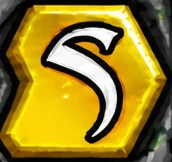
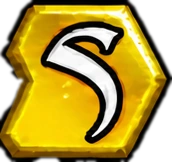
feat(siege): equip earlier power forms, drop special energy costs, cut tab art to its shape
Claude-Session: https://claude.ai/code/session_01D7UBrhj4BdB81o1BiFmQxC

diff --git a/bug-hunter/src/siege/cartoon/model.ts b/bug-hunter/src/siege/cartoon/model.ts
@@ -235,7 +235,8 @@ export interface Progress { version: 1; unlocked: number; coins: number; victori
   owned: number[];
   /** The special powers bought (`POWERS`): each one's level, 0 when not bought. */
   powers: number[];
-  /** The powers taken into battle (at most `KIT`), by id. */
+  /** The power forms taken into battle (at most `KIT`), as cards (`powerCard`): any form already bought, so an upgraded power
+      can still bring its earlier forms. */
   kit: number[];
   /** Set once the deck holds cards (`card`), not troop ids. */
   cards: 1 }
@@ -267,7 +268,7 @@ export function readProgress(raw: string | null): Progress {
     p.upgrades = [0, 1, 2, 3].map(i => integer(v.upgrades?.[i], 0, 5, 0)) as Progress['upgrades'];
     p.levels = UNITS.map(u => (u.foe ? 1 : integer(v.levels?.[u.id], 1, levelsOf(u.id), 1)));
     p.powers = POWERS.map((w, i) => integer(v.powers?.[i], 0, w.forms.length, 0));
-    p.kit = Array.isArray(v.kit) ? [...new Set<number>(v.kit.filter((n: unknown): n is number => typeof n === 'number' && p.powers[n] > 0))].slice(0, KIT) : [];
+    p.kit = Array.isArray(v.kit) ? [...new Set<number>(v.kit.filter((n: unknown): n is number => typeof n === 'number' && hasPower(p, n)))].slice(0, KIT) : [];
     p.owned = [...new Set<number>([0, ...(Array.isArray(v.owned) ? v.owned.filter((n: unknown) => typeof n === 'number' && isOpen(p, n)) : [])])];
     // An older save's deck holds troop ids, each meaning the troop at its level then.
     const deck: number[] = Array.isArray(v.deck) ? v.deck.filter((n: unknown): n is number => typeof n === 'number').map((n: number) => (v.cards === 1 ? n : owns(p, n) ? card(n, p.levels[n]) : -1)) : [];
@@ -332,7 +333,7 @@ export interface Siege {
   spell: number; rocket: number; aim: number; bow: Bow;
   /** The special powers taken into this battle (`POWERS`, at the level bought), their recharges, the blows each has
       scheduled to land (`Hit`), and the stretch of field on screen (set by the view) that they cover. */
-  kit: { id: number; level: number }[]; kitCd: Record<number, number>; hitq: Hit[]; view: { x: number; width: number }; casts: number;
+  kit: { id: number; level: number; card: number }[]; kitCd: Record<number, number>; hitq: Hit[]; view: { x: number; width: number }; casts: number;
   /** The troops' sounds since the view last took them (attacks and deaths, where they happened); kept short. */
   sounds?: { k: string; x: number }[];
   /** How many times the bow has shot this battle (the view plays a sound for each new one). */
@@ -373,7 +374,7 @@ export const generatorPrice = (s: Siege) => 65 + s.generator * 45;
 export function newSiege(p: Progress, world: number): Siege {
   world = integer(world, 1, Math.min(LAST, p.unlocked), 1);
   const maxHp: [number, number] = [1700 + p.upgrades[1] * 200, 1700 + hard(world) * 150];
-  return { world, phase: 'fight', time: 0, energy: 80, generator: 0, cooldowns: {}, hp: [...maxHp], maxHp, units: [], effects: [], nextId: 1, nextWave: 7, waves: 0, kills: 0, spell: 0, rocket: 0, aim: 700, bossSpawned: false, paid: false, power: 1 + p.upgrades[0] * 0.08, economy: p.upgrades[2] * 0.6, deck: [...p.deck], bow: { quiver: BOW.max, drawing: false, held: 0, next: 0, level: p.upgrades[3] }, fort: p.upgrades[1], levels: [...(p.levels ?? [])], kit: p.kit.filter(id => p.powers[id] > 0).map(id => ({ id, level: p.powers[id] })), kitCd: {}, hitq: [], view: { x: 0, width: 650 }, casts: 0 };
+  return { world, phase: 'fight', time: 0, energy: 80, generator: 0, cooldowns: {}, hp: [...maxHp], maxHp, units: [], effects: [], nextId: 1, nextWave: 7, waves: 0, kills: 0, spell: 0, rocket: 0, aim: 700, bossSpawned: false, paid: false, power: 1 + p.upgrades[0] * 0.08, economy: p.upgrades[2] * 0.6, deck: [...p.deck], bow: { quiver: BOW.max, drawing: false, held: 0, next: 0, level: p.upgrades[3] }, fort: p.upgrades[1], levels: [...(p.levels ?? [])], kit: p.kit.filter(c => hasPower(p, c)).map(c => ({ id: c % 100, level: Math.floor(c / 100) + 1, card: c })), kitCd: {}, hitq: [], view: { x: 0, width: 650 }, casts: 0 };
 }
 /** The guardian, Cartoon Wars 2-style: it only comes out once the enemy fortress falls, far tougher than a troop, and
     the battle is won when it falls too. */
@@ -574,12 +575,10 @@ function bow(s: Siege, dt: number) {
 }
 /** The missile: one heavy blast at the aim, a shorter recharge than the discharge. */
 export const ROCKET = { radius: 70, damage: 150, every: 12 };
-/** What each special costs in energy (the discharge and the missile; the shop's powers have their own `mana`), and their recharge. */
-export const MANA = { strike: 40, missile: 30 };
+/** The discharge's recharge (seconds). */
 export const STRIKE_EVERY = 24;
 export function missile(s: Siege): boolean {
-  if (s.phase !== 'fight' || s.rocket > 0 || s.energy < MANA.missile) return false;
-  s.energy -= MANA.missile;
+  if (s.phase !== 'fight' || s.rocket > 0) return false;
   const x = aimAt(s.aim);
   s.effects.push({ x, from: 80, lane: 1, life: 0.55, max: 0.55, kind: 'rocket', side: 0 });
   damageArea(s, x, ROCKET.radius, ROCKET.damage * s.power); s.rocket = ROCKET.every;
@@ -587,24 +586,24 @@ export function missile(s: Siege): boolean {
   s.effects[s.effects.length - 1].life += 0.55; return true;
 }
 export function strike(s: Siege): boolean {
-  if (s.phase !== 'fight' || s.spell > 0 || s.energy < MANA.strike) return false;
-  s.energy -= MANA.strike; damageArea(s, s.aim, 155, 210 * s.power, 0.7); s.spell = STRIKE_EVERY; return true;
+  if (s.phase !== 'fight' || s.spell > 0) return false;
+  damageArea(s, s.aim, 155, 210 * s.power, 0.7); s.spell = STRIKE_EVERY; return true;
 }
 /** The special powers (the shop's Especial tab): bought with gold, each covers the stretch of field on screen. Level 1
     is `price` gold, each later form its own `price`; `unlock` is the act that opens it. `damage` is per blow. */
 export interface PowerForm { price: number; damage: number; art?: string; freeze?: number; radius?: number; count?: number; push?: number }
-export const POWERS: { id: number; unlock: number; price: number; cooldown: number; mana: number; forms: PowerForm[] }[] = [
+export const POWERS: { id: number; unlock: number; price: number; cooldown: number; forms: PowerForm[] }[] = [
   // Arrow rain: arrows, ice arrows (they freeze), fire arrows (they leave flames), rockets (they explode).
-  { id: 0, unlock: 1, price: 400, cooldown: 30, mana: 70, forms: [{ price: 0, damage: 24, art: 'arrow' }, { price: 500, damage: 28, art: 'ice', freeze: 1.3 }, { price: 900, damage: 34, art: 'fire' }, { price: 1500, damage: 46, art: 'rocket', radius: 52 }] },
+  { id: 0, unlock: 1, price: 400, cooldown: 30, forms: [{ price: 0, damage: 24, art: 'arrow' }, { price: 500, damage: 28, art: 'ice', freeze: 1.3 }, { price: 900, damage: 34, art: 'fire' }, { price: 1500, damage: 46, art: 'rocket', radius: 52 }] },
   // Lightning rain: bolts across the field, the later forms more of them and stunning.
-  { id: 1, unlock: 2, price: 600, cooldown: 34, mana: 90, forms: [{ price: 0, damage: 60, count: 12 }, { price: 800, damage: 66, count: 18, freeze: 0.8 }, { price: 1400, damage: 76, count: 26, freeze: 1.3 }] },
+  { id: 1, unlock: 2, price: 600, cooldown: 34, forms: [{ price: 0, damage: 60, count: 12 }, { price: 800, damage: 66, count: 18, freeze: 0.8 }, { price: 1400, damage: 76, count: 26, freeze: 1.3 }] },
   // Tsunami: a wall of water sweeping the field, throwing the enemy back.
-  { id: 2, unlock: 3, price: 900, cooldown: 42, mana: 110, forms: [{ price: 0, damage: 90, push: 240 }, { price: 1100, damage: 140, push: 360 }, { price: 1900, damage: 210, push: 520, freeze: 1.2 }] },
+  { id: 2, unlock: 3, price: 900, cooldown: 42, forms: [{ price: 0, damage: 90, push: 240 }, { price: 1100, damage: 140, push: 360 }, { price: 1900, damage: 210, push: 520, freeze: 1.2 }] },
   // Meteor shower: burning rocks across the field, each leaving a fire.
-  { id: 3, unlock: 4, price: 1200, cooldown: 40, mana: 100, forms: [{ price: 0, damage: 95, count: 6, radius: 62 }, { price: 1500, damage: 115, count: 9, radius: 66 }, { price: 2400, damage: 135, count: 13, radius: 70 }] },
+  { id: 3, unlock: 4, price: 1200, cooldown: 40, forms: [{ price: 0, damage: 95, count: 6, radius: 62 }, { price: 1500, damage: 115, count: 9, radius: 66 }, { price: 2400, damage: 135, count: 13, radius: 70 }] },
 ];
-/** At most this many powers go into a battle. */
-export const KIT = 3;
+/** At most this many power forms go into a battle. */
+export const KIT = 4;
 /** A blow a power has scheduled to land at `at` (battle time) on the enemies within `r` of `x`; `seen` makes a sweeping
     one (the wave) strike each enemy only once. */
 export interface Hit { at: number; x: number; r: number; damage: number; freeze?: number; push?: number; seen?: Set<number> }
@@ -612,20 +611,25 @@ const powerOpen = (p: Progress, id: number) => testing.free || POWERS[id].unlock
 /** What a power's level costs in gold (level 1 is the power itself). */
 export const powerCost = (id: number, level: number) => (testing.free ? 0 : level <= 1 ? POWERS[id].price : POWERS[id].forms[level - 1]?.price ?? 0);
 export const isPowerOpen = (p: Progress, id: number) => !!POWERS[id] && powerOpen(p, id);
-/** Buys a power's first level or its next form; the first purchase also puts it in the kit if there is room. */
+/** A power form as a kit card: `id + (level - 1) * 100`, like a troop's. */
+export const powerCard = (id: number, level = 1) => id + (level - 1) * 100;
+/** Is this card a form of a power that has been bought (that level or beyond)? */
+export const hasPower = (p: Progress, c: number) => Number.isInteger(c) && c >= 0 && !!POWERS[c % 100] && Math.floor(c / 100) + 1 <= (p.powers[c % 100] ?? 0);
+/** Buys a power's first level or its next form; a new form goes into the kit if there is room. */
 export function buyPower(p: Progress, id: number): boolean {
   const w = POWERS[id]; if (!w) return false;
   const level = p.powers[id] ?? 0, cost = powerCost(id, level + 1);
   if (level >= w.forms.length || !powerOpen(p, id) || p.coins < cost) return false;
   p.coins -= cost; p.powers[id] = level + 1;
-  if (level === 0 && p.kit.length < KIT) p.kit.push(id);
+  if (p.kit.length < KIT) p.kit.push(powerCard(id, level + 1));
   return true;
 }
-/** Takes a bought power into the kit, or out of it; false when the kit is full or the power is not bought. */
-export function toggleKit(p: Progress, id: number): boolean {
-  if (p.kit.includes(id)) { p.kit = p.kit.filter(n => n !== id); return true; }
-  if (!(p.powers[id] > 0) || p.kit.length >= KIT) return false;
-  p.kit.push(id); return true;
+/** Takes a form that has been bought into the kit, or out of it; false when the kit is full or the form is not bought. */
+export function toggleKit(p: Progress, id: number, level = p.powers[id] ?? 1): boolean {
+  const c = powerCard(id, level);
+  if (p.kit.includes(c)) { p.kit = p.kit.filter(n => n !== c); return true; }
+  if (!hasPower(p, c) || p.kit.length >= KIT) return false;
+  p.kit.push(c); return true;
 }
 /** A fixed pseudo-random 0..1 for a number (so a battle replays the same). */
 const rnd = (n: number) => { const x = Math.sin(n * 12.9898 + 4.1) * 43758.5453; return x - Math.floor(x); };
@@ -639,9 +643,9 @@ function land(s: Siege, h: Hit) {
   }
 }
 /** Sets off a power from the kit: its blows spread over the stretch of field on screen. */
-export function castPower(s: Siege, id: number): boolean {
-  const k = s.kit.find(n => n.id === id), w = POWERS[id];
-  if (!k || !w || s.phase !== 'fight' || (s.kitCd[id] ?? 0) > 0 || s.energy < w.mana) return false;
+export function castPower(s: Siege, card: number): boolean {
+  const k = s.kit.find(n => n.card === card), id = k?.id ?? -1, w = POWERS[id];
+  if (!k || !w || s.phase !== 'fight' || (s.kitCd[card] ?? 0) > 0) return false;
   const form = w.forms[Math.min(k.level, w.forms.length) - 1], c = ++s.casts;
   let x0 = Math.max(110, s.view.x + 20), x1 = Math.min(FIELD - 90, s.view.x + s.view.width - 20);
   if (x1 - x0 < 160) { x0 = 110; x1 = FIELD - 90; }
@@ -683,7 +687,7 @@ export function castPower(s: Siege, id: number): boolean {
     }
     hear(s, 'meteor', (x0 + x1) / 2);
   }
-  s.energy -= w.mana; s.kitCd[id] = w.cooldown; return true;
+  s.kitCd[card] = w.cooldown; return true;
 }
 /** Fixed-step caller. Accumulate damage before removal so opposing lethal hits resolve fairly. */
 export function tick(s: Siege, dt: number) {

diff --git a/bug-hunter/src/siege/index.ts b/bug-hunter/src/siege/index.ts
@@ -166,20 +166,20 @@ export function openSiege(t: T, onClose: () => void, hero = { pic: '', name: '' 
       const level = k + 1, x = tile(row, level), on = pick.row === row && pick.level === level;
       const pic = shopTab === 'special' ? powerPic(row, level) : shopTab === 'base' ? `/images/game/${upgradePic('cartoon', row, level)}.webp` : V.portrait(row, level);
       const corner = shopTab === 'special' ? t('siegePowerCd', { n: cartoonModel.POWERS[row].cooldown }) : shopTab === 'base' ? String(level) : String(M.specAt(row, level).cost);
-      const worn = shopTab === 'special' ? level === progress.powers[row] && progress.kit.includes(row) : shopTab !== 'base' && selected.includes(cartoonModel.card(row, level));
+      const worn = shopTab === 'special' ? progress.kit.includes(cartoonModel.powerCard(row, level)) : shopTab !== 'base' && selected.includes(cartoonModel.card(row, level));
       // What is still to come stays hidden as a «?» (only what is owned, the next one to buy, and every troop's first form show), for the hype.
       const hidden = !x.have && !x.next && !(shopTab !== 'base' && level === 1);
       return `<button class="sg-st-tile ${x.have ? 'is-have' : x.next ? 'is-next' : 'is-locked'} ${on ? 'is-on' : ''} ${worn ? 'is-worn' : ''}" data-sg-tile="${row}:${level}" aria-pressed="${on}" aria-label="${hidden ? '?' : `${shopTab === 'special' ? powerName(row, level) : shopTab === 'base' ? t(`siegeUpgrade${row}` as Key) : name(row)} · ${t('siegeLevel', { n: level })}`}">${hidden ? '<span class="sg-st-q" aria-hidden="true">?</span>' : `<img src="${pic}" ${shopTab === 'base' || shopTab === 'special' ? '' : `data-trim="${pic}"`} alt="">`}${corner && !hidden ? `<small>${corner}</small>` : ''}${worn ? '<b class="sg-st-worn" aria-hidden="true">✓</b>' : ''}</button>`;
     }).join('<span class="sg-st-link" aria-hidden="true"></span>')}</div>`).join('');
     const x = tile(pick.row, pick.level), troop = shopTab !== 'base';
-    const label = !x.have && !x.next && !(troop && pick.level === 1) ? '? ? ?' : shopTab === 'special' ? `${powerName(pick.row, pick.level)} · ⚡ ${cartoonModel.POWERS[pick.row].mana} — ${t(`siegePower${pick.row}Text` as Key)}` : troop ? `${name(pick.row)} · ${t('siegeLevel', { n: pick.level })} — ${role(pick.row)}` : `${t(`siegeUpgrade${pick.row}` as Key)} · ${t('siegeLevel', { n: pick.level })}`;
+    const label = !x.have && !x.next && !(troop && pick.level === 1) ? '? ? ?' : shopTab === 'special' ? `${powerName(pick.row, pick.level)} — ${t(`siegePower${pick.row}Text` as Key)}` : troop ? `${name(pick.row)} · ${t('siegeLevel', { n: pick.level })} — ${role(pick.row)}` : `${t(`siegeUpgrade${pick.row}` as Key)} · ${t('siegeLevel', { n: pick.level })}`;
     const price = x.have ? `✓ ${t('siegeHave')}` : x.next ? (x.price ? `🪙 ${x.price}` : t('siegeFree')) : `🔒 ${x.why}`;
     const kind = shopTab === 'air';
     // The equipped cards; a tap on one takes it out of the army.
-    const kitSlots = Array.from({ length: cartoonModel.KIT }, (_, i) => { const id = progress.kit[i]; return id === undefined ? '<span class="sg-st-slot"></span>' : `<button class="sg-st-slot is-full" data-sg-tile="${id}:${progress.powers[id]}" aria-label="${powerName(id, progress.powers[id])}"><img src="${powerPic(id, progress.powers[id])}" alt=""><small>${progress.powers[id]}</small></button>`; }).join('');
+    const kitSlots = Array.from({ length: cartoonModel.KIT }, (_, i) => { const c = progress.kit[i]; if (c === undefined) return '<span class="sg-st-slot"></span>'; const id = c % 100, lv = Math.floor(c / 100) + 1; return `<button class="sg-st-slot is-full" data-sg-tile="${id}:${lv}" aria-label="${powerName(id, lv)}"><img src="${powerPic(id, lv)}" alt=""><small>${lv}</small></button>`; }).join('');
     const slots = shopTab === 'special' ? kitSlots : Array.from({ length: M.DECK }, (_, i) => { const c = selected.filter(n => air(n) === kind)[i]; return c === undefined ? '<span class="sg-st-slot"></span>' : `<button class="sg-st-slot is-full" data-sg-tile="${cid(c)}:${clv(c)}" aria-label="${name(cid(c))} · ${t('siegeLevel', { n: clv(c) })}"><img src="${V.portrait(cid(c), clv(c))}" data-trim="${V.portrait(cid(c), clv(c))}" alt=""><small>${clv(c)}</small></button>`; }).join('');
     return `<div class="sg-store is-${shopTab}"><nav class="sg-st-tabs" role="tablist">${tabs}<button class="sg-st-back" data-sg-prep="map">◀ ${t('siegeShopBack')}</button></nav>
-      <div class="sg-st-body"><div class="sg-st-frame"><div class="sg-st-grid">${grid}</div>${['top', 'bottom', 'left', 'right'].map(k => `<i class="sg-st-gem is-${k}" aria-hidden="true"></i>`).join('')}</div><aside class="sg-st-slots" aria-label="${shopTab === 'special' ? t('siegeShopSpecial') : t(kind ? 'siegeArmyAir' : 'siegeArmyLand', { n: selected.filter(n => air(n) === kind).length, max: M.DECK })}">${shopTab === 'base' ? '' : slots}</aside></div>
+      <div class="sg-st-body"><div class="sg-st-frame"><div class="sg-st-grid">${grid}</div>${['top', 'bottom', 'left', 'right'].map(k => `<i class="sg-st-gem is-${k}" aria-hidden="true"></i>`).join('')}</div><aside class="sg-st-slots" aria-label="${shopTab === 'special' ? t('siegeShopSpecial') + ` ${progress.kit.length}/${cartoonModel.KIT}` : t(kind ? 'siegeArmyAir' : 'siegeArmyLand', { n: selected.filter(n => air(n) === kind).length, max: M.DECK })}">${shopTab === 'base' ? '' : slots}</aside></div>
       <div class="sg-st-info"><p class="sg-st-desc"><b>${label}</b><span class="${x.next && progress.coins < x.price ? 'is-poor' : ''}">${price}</span></p><p class="sg-message" role="status"></p></div>
       <div class="sg-st-actions"><span class="sg-st-gold"><img src="/images/game/store/coins-2.webp" alt="">${progress.coins}</span>
         <button class="sg-st-buy" data-sg="purchase" ${x.next && progress.coins >= x.price ? '' : 'disabled'}>${t('siegeBuy')}</button>
@@ -194,7 +194,7 @@ export function openSiege(t: T, onClose: () => void, hero = { pic: '', name: '' 
   /** A tap on a troop form the player has puts that card in the army, or takes it out; it returns false (and says
       so) when that kind's five places are full. */
   function equip(row: number, level: number) {
-    if (shopTab === 'special') { if (!cartoonModel.toggleKit(progress, row)) return false; persist(); sound('click'); return true; }
+    if (shopTab === 'special') { if (!cartoonModel.toggleKit(progress, row, level)) return false; persist(); sound('click'); return true; }
     const c = cartoonModel.card(row, level);
     if (selected.includes(c)) selected = selected.filter(n => n !== c);
     else if (selected.filter(n => air(n) === air(c)).length < M.DECK) selected.push(c);
@@ -429,7 +429,7 @@ export function openSiege(t: T, onClose: () => void, hero = { pic: '', name: '' 
     root.querySelectorAll<HTMLElement>('[data-sg-tab]').forEach(b => { const on = b.dataset.sgTab === tab; b.classList.toggle('is-on', on); b.setAttribute('aria-selected', String(on)); });
     const list = tabCards();
     q('[data-sg-cards]').innerHTML = tab === 'special'
-      ? `<button data-sg="generator"></button><button data-sg="strike"></button><button data-sg="missile"></button>${(state?.kit ?? []).map(k => `<button data-sg-power="${k.id}"></button>`).join('')}`
+      ? `<button data-sg="generator"></button><button data-sg="strike"></button><button data-sg="missile"></button>${(state?.kit ?? []).map(k => `<button data-sg-power="${k.card}"></button>`).join('')}`
       : list.length ? list.map((id, i) => `<button data-sg-summon="${id}" aria-label="${i + 1}. ${name(cid(id))} · ${t('siegeLevel', { n: clv(id) })} · ${M.specAt(cid(id), clv(id)).cost}"><img src="${V.portrait(cid(id), clv(id))}" data-trim="${V.portrait(cid(id), clv(id))}" alt=""><small data-sg-cost="${id}"></small><i class="sg-cooldown" data-sg-cooldown="${id}"></i></button>`).join('')
       : `<p class="sg-empty">${t('siegeAirEmpty')}</p>`;
     V.trimImages(root); layoutBar(); updateUi();
@@ -468,17 +468,16 @@ export function openSiege(t: T, onClose: () => void, hero = { pic: '', name: '' 
     bowButton.style.setProperty('--q', (s.bow.quiver / M.BOW.max).toFixed(3));
     bowButton.classList.toggle('is-empty', reloading); bowButton.classList.toggle('is-drawing', s.bow.drawing); bowButton.setAttribute('aria-pressed', String(s.bow.drawing));
     bowButton.disabled = paused || s.phase !== 'fight';
-    // Cartoon's specials cost energy and show their recharge as a darkening that lightens from the top down; Legacy's keep the seconds.
+    // Cartoon's specials show their recharge as a darkening that lightens from the top down; Legacy's keep the seconds.
     const cartoon = mode === 'cartoon';
-    for (const [action, key, cd, pic, total, mana] of [['strike', 'siegeSpell', s.spell, 'skills/bolt', cartoonModel.STRIKE_EVERY, cartoonModel.MANA.strike], ['missile', 'siegeMissile', s.rocket, 'fx/rocket', cartoonModel.ROCKET.every, cartoonModel.MANA.missile]] as const) {
+    for (const [action, key, cd, pic, total] of [['strike', 'siegeSpell', s.spell, 'skills/bolt', cartoonModel.STRIKE_EVERY], ['missile', 'siegeMissile', s.rocket, 'fx/rocket', cartoonModel.ROCKET.every]] as const) {
       const button = root.querySelector<HTMLButtonElement>(`[data-sg="${action}"]`); if (!button) continue;
-      setPicButton(button, `/images/game/${pic}.webp`, cartoon ? `⚡ ${mana}` : cd > 0 ? `${Math.ceil(cd)}s` : t('siegeReady'), cartoon ? cd / total : 0); button.setAttribute('aria-label', t(key)); button.disabled = paused || s.phase !== 'fight' || cd > 0 || (cartoon && s.energy < mana); button.classList.toggle('is-cooling', cd > 0);
+      setPicButton(button, `/images/game/${pic}.webp`, cartoon ? '' : cd > 0 ? `${Math.ceil(cd)}s` : t('siegeReady'), cartoon ? cd / total : 0); button.setAttribute('aria-label', t(key)); button.disabled = paused || s.phase !== 'fight' || cd > 0; button.classList.toggle('is-cooling', cd > 0);
     }
     for (const k of s.kit ?? []) {
-      const button = root.querySelector<HTMLButtonElement>(`[data-sg-power="${k.id}"]`); if (!button) continue;
-      const cd = s.kitCd[k.id] ?? 0;
-      const w = cartoonModel.POWERS[k.id];
-      setPicButton(button, powerPic(k.id, k.level), `⚡ ${w.mana}`, cd / w.cooldown); button.setAttribute('aria-label', powerName(k.id, k.level)); button.disabled = paused || s.phase !== 'fight' || cd > 0 || s.energy < w.mana; button.classList.toggle('is-cooling', cd > 0);
+      const button = root.querySelector<HTMLButtonElement>(`[data-sg-power="${k.card}"]`); if (!button) continue;
+      const cd = s.kitCd[k.card] ?? 0, w = cartoonModel.POWERS[k.id];
+      setPicButton(button, powerPic(k.id, k.level), '', cd / w.cooldown); button.setAttribute('aria-label', powerName(k.id, k.level)); button.disabled = paused || s.phase !== 'fight' || cd > 0; button.classList.toggle('is-cooling', cd > 0);
     }
     for (const id of tabCards()) {
       const cd = s.cooldowns[id] ?? 0;

diff --git a/bug-hunter/src/strings.ts b/bug-hunter/src/strings.ts
@@ -128,7 +128,7 @@ const en = {
   siegePower1Text: "Lightning strikes all over the screen, the enemies most of all. Later forms stun.",
   siegePower2Text: "A wall of water sweeps the screen and throws the enemy back.",
   siegePower3Text: "Burning rocks crash over the screen and leave fires.",
-  siegePowerKitFull: "The kit holds three powers: take one out first.",
+  siegePowerKitFull: "The kit holds four powers: take one out first.",
   siegePowerCd: "{n}s",
   siegeShopBase: "Base",
   siegeBuy: "Purchase",
@@ -1525,7 +1525,7 @@ const es: Record<Key, string> = {
   siegePower1Text: "Caen rayos por toda la pantalla, sobre todo en los enemigos. Las formas siguientes aturden.",
   siegePower2Text: "Un muro de agua barre la pantalla y echa al enemigo hacia atrás.",
   siegePower3Text: "Rocas en llamas caen por la pantalla y dejan fuegos.",
-  siegePowerKitFull: "El kit lleva tres poderes: quita uno antes.",
+  siegePowerKitFull: "El kit lleva cuatro poderes: quita uno antes.",
   siegePowerCd: "{n}s",
   siegeShopBase: "Base",
   siegeBuy: "Comprar",

diff --git a/bug-hunter/src/version.ts b/bug-hunter/src/version.ts
@@ -4,7 +4,7 @@
  * This folder migration preserves the public game URL, saves and gameplay.
  * The build stamp changes automatically on each deployment.
  */
-export const GAME_VERSION = '1.15.51';
+export const GAME_VERSION = '1.15.52';
 
 declare const __GAME_BUILD__: { commit: string; built: string };
 /** Build stamp from the shared Vite configuration; safe outside Vite too. */

diff --git a/bug-hunter/CHANGELOG.md b/bug-hunter/CHANGELOG.md
@@ -4,6 +4,15 @@
 
 This changelog tracks game-version changes starting with v1.12.55. Earlier releases are not reconstructed here.
 
+## 1.15.52 - 2026-10-27
+
+### Changed
+- Siege Cartoon: an upgraded power keeps its earlier forms: any form bought (arrow rain, ice arrows, fire arrows, rockets...) can be taken into the kit, up to four, each with its own recharge; buying a new form puts it in the kit if there is room.
+- Siege Cartoon: the specials no longer cost energy (the shop's powers, the discharge and the missile are back to recharge only).
+
+### Fixed
+- Siege Cartoon: the L / A / S tabs are cut to their hexagons (their pictures were rectangles that showed a stretched square behind the tab when picked).
+
 ## 1.15.51 - 2026-10-27
 
 ### Changed
